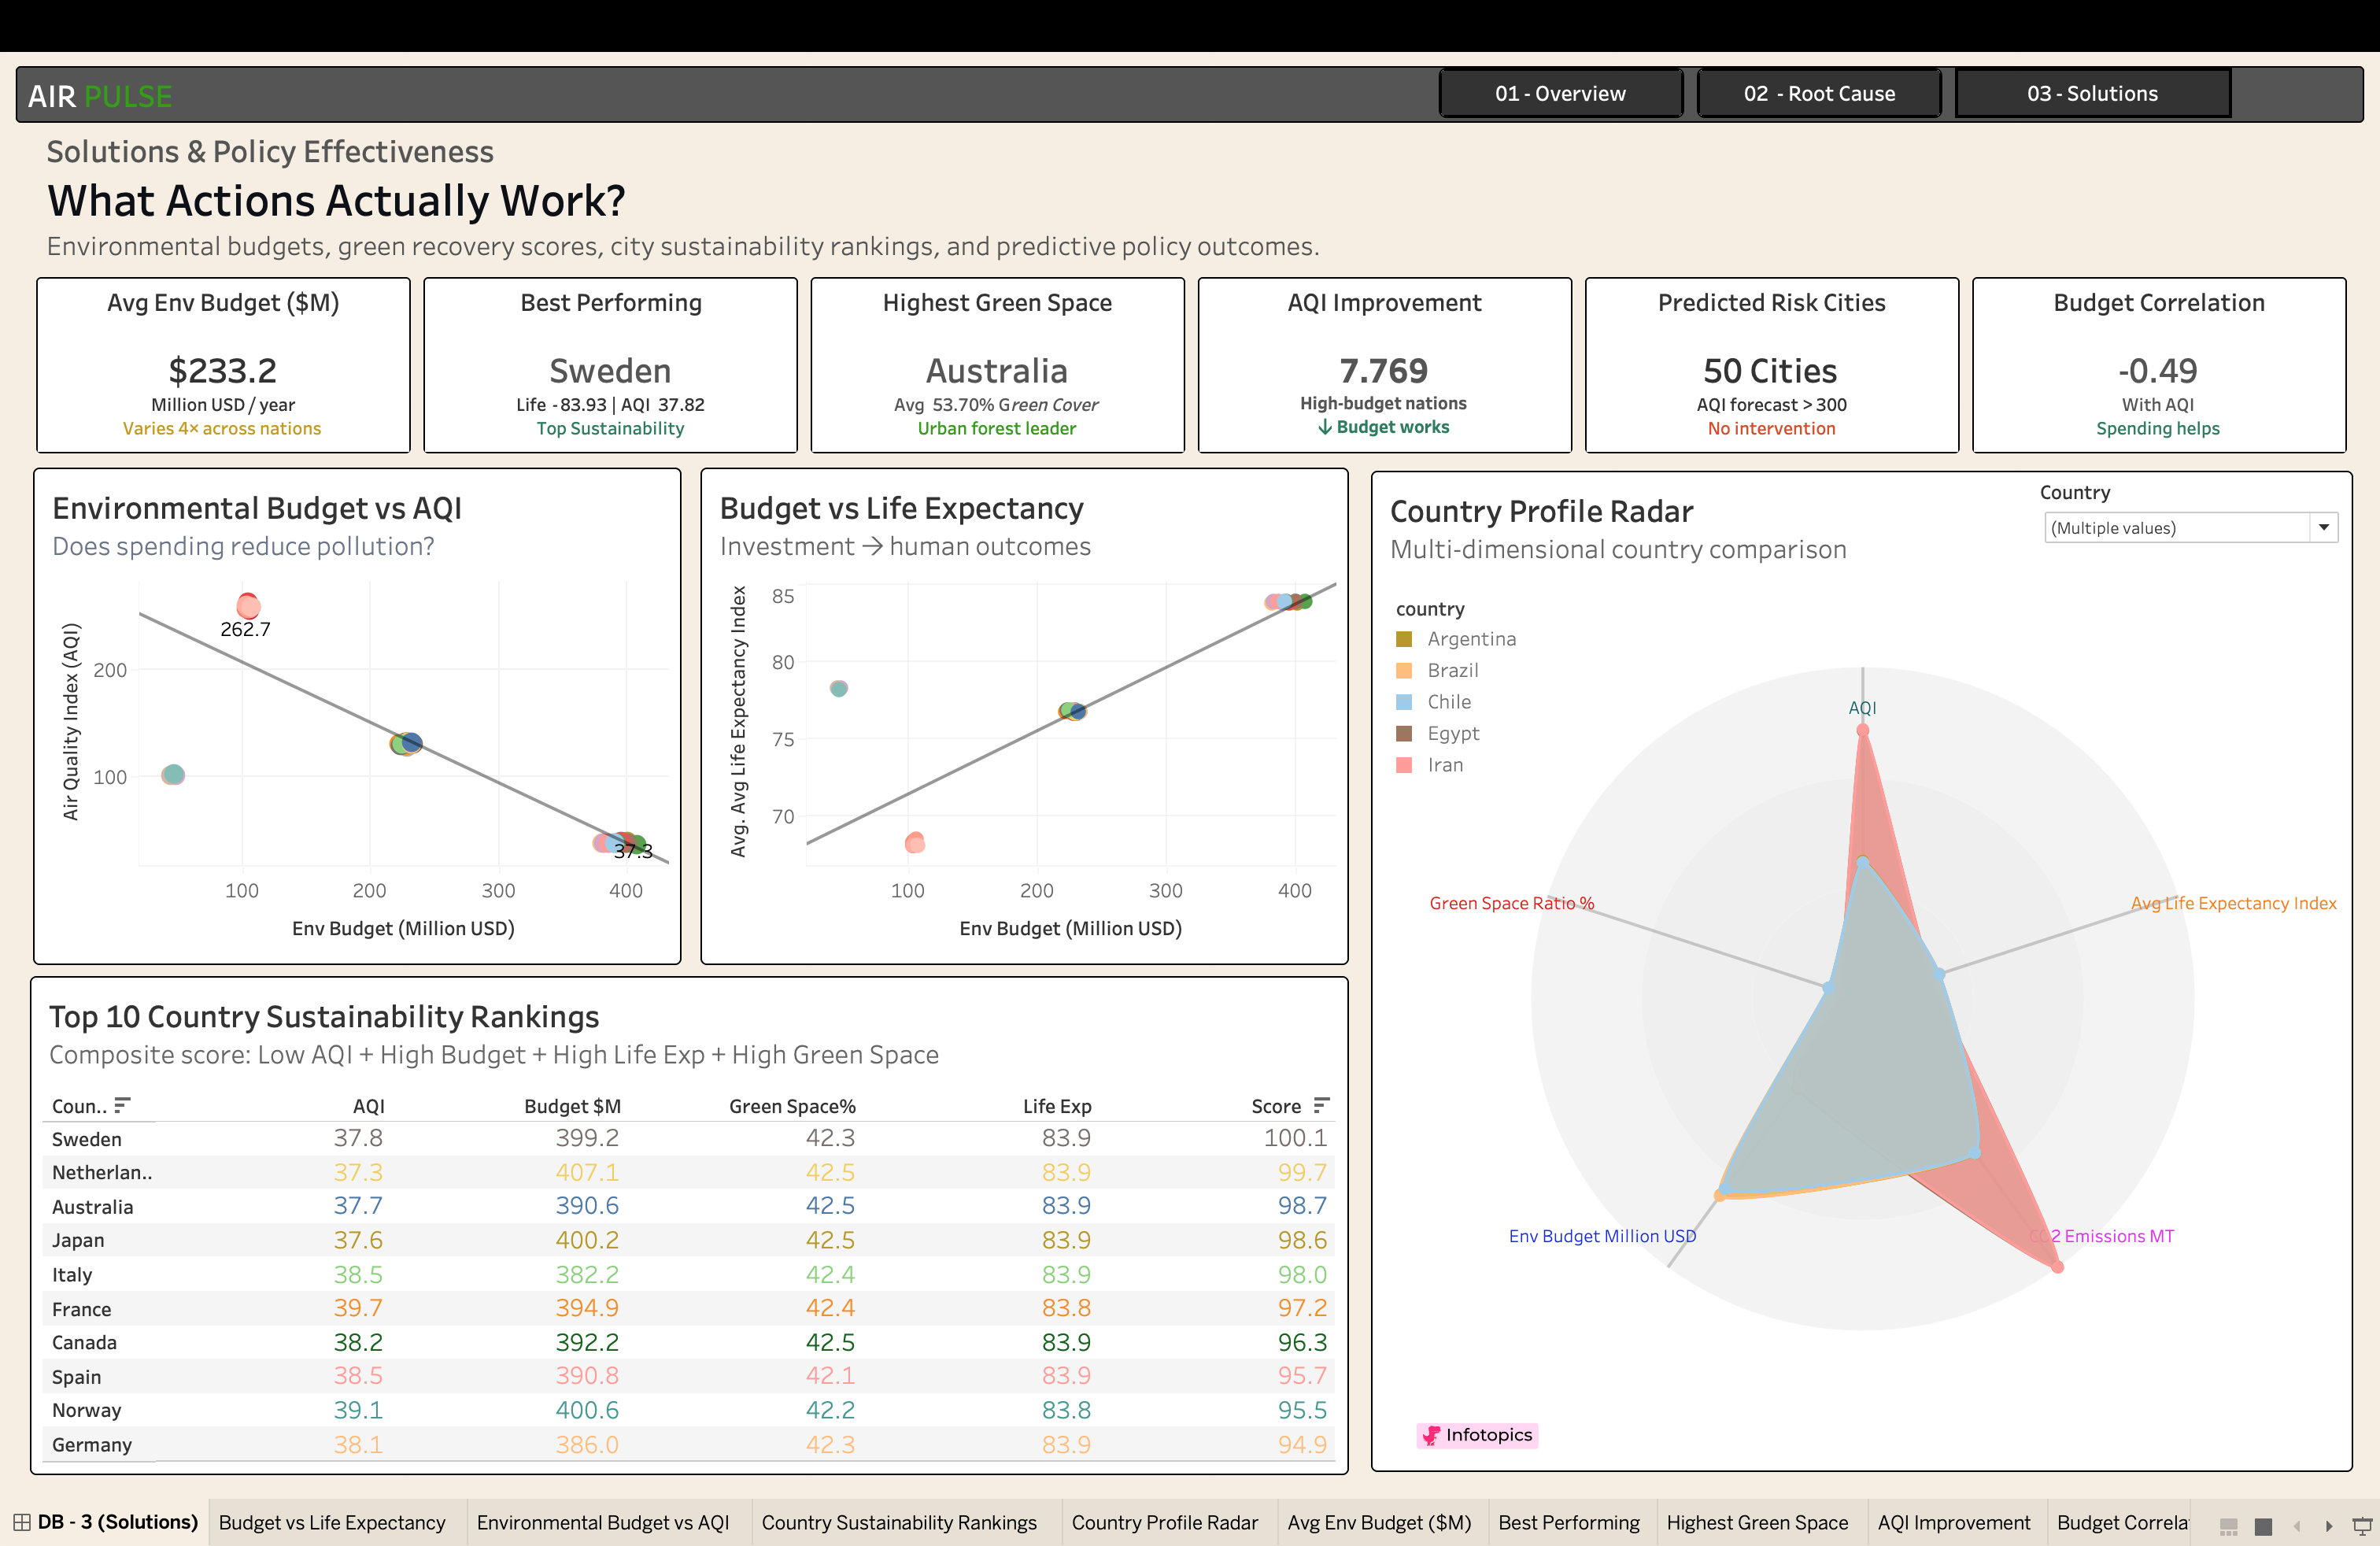
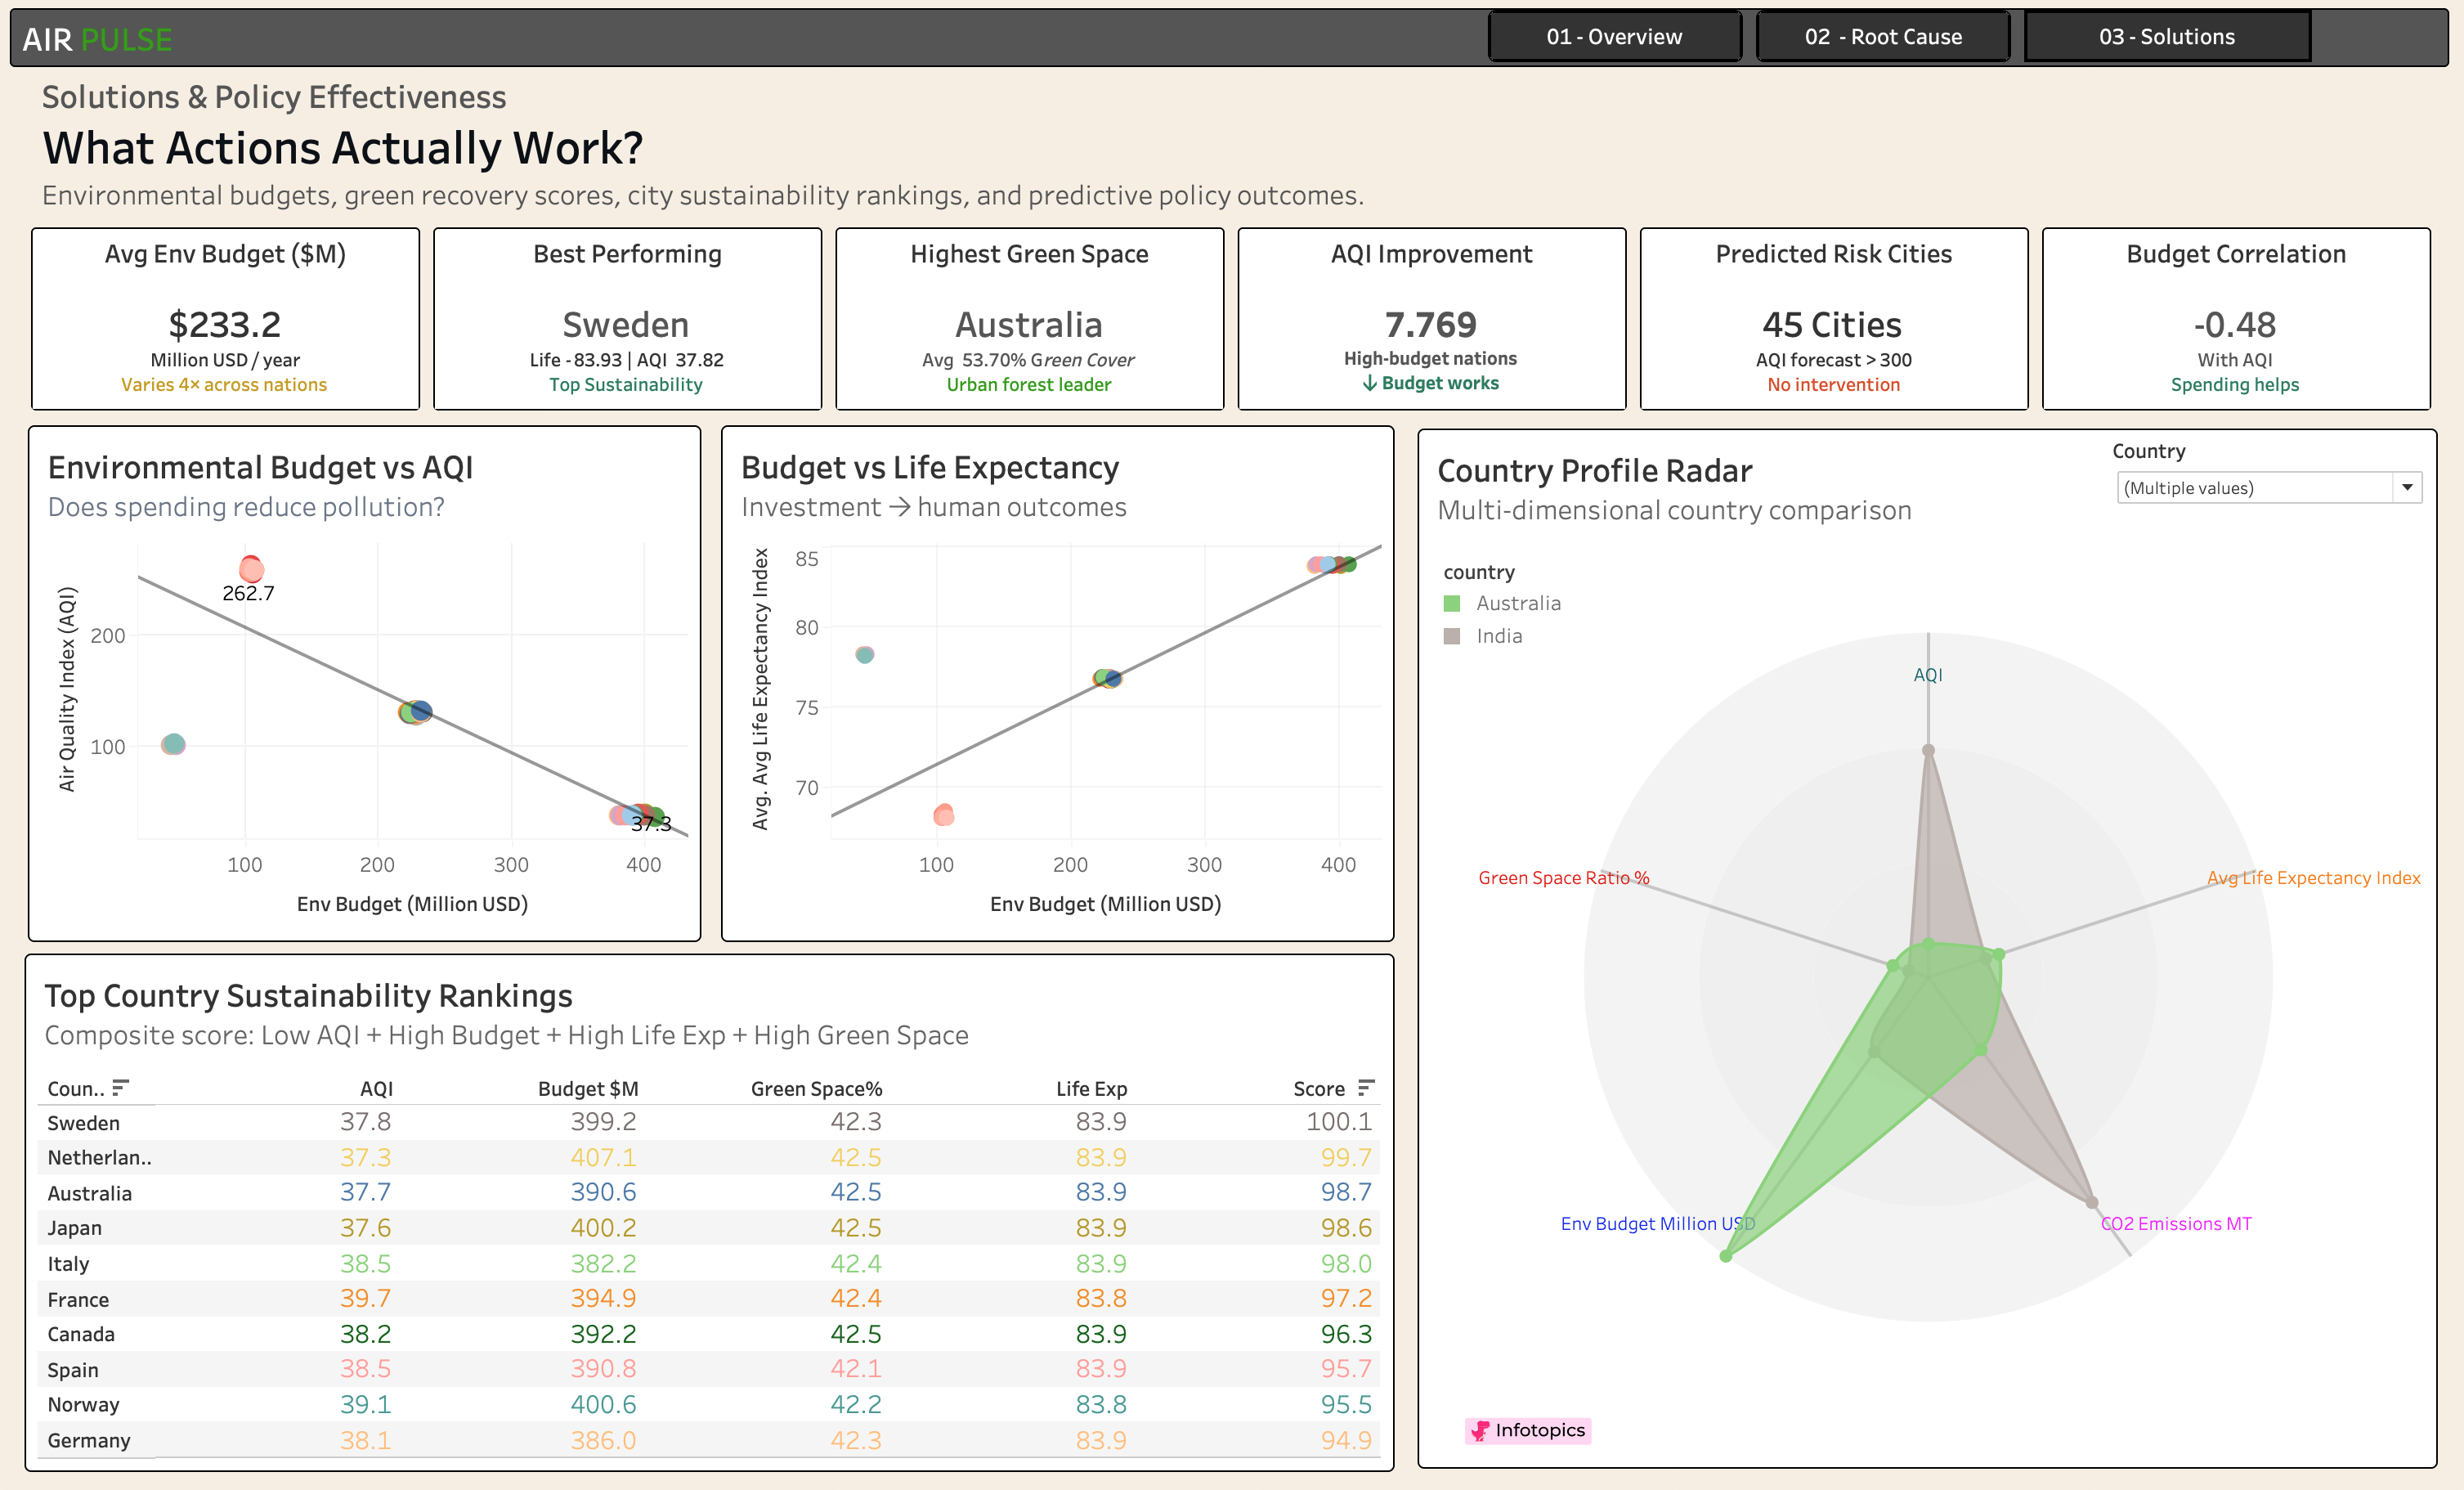
Updated project structure, added my portfolio link and resume and updated the dashboard link

diff --git a/DVA-focused-Portfolio/README.md b/DVA-focused-Portfolio/README.md
@@ -1,0 +1,16 @@
+# DVA-focused Portfolio
+
+This directory contains the personal portfolios of the team members, highlighting their work in Data Visualization and Analytics.
+
+## 👥 Team Portfolios
+
+| Member | Portfolio Link |
+| :--- | :--- |
+| **Shreya** | [Link Placeholder] |
+| **Mausam** | [View Portfolio](https://mausam-dva-portfolio.netlify.app/) |
+| **Ashutosh** | [Link Placeholder] |
+| **Satyam** | [Link Placeholder] |
+| **Himanshu** | [Link Placeholder] |
+| **Shagun Vishnoi** | [Link Placeholder] |
+
+---

diff --git a/DVA-oriented-Resume/README.md b/DVA-oriented-Resume/README.md
@@ -1,0 +1,16 @@
+# DVA-oriented Resume
+
+This directory contains the resumes of the team members, optimized for Data Visualization and Analytics roles.
+
+## 👥 Team Resumes
+
+| Member | Resume Link |
+| :--- | :--- |
+| **Shreya** | [Link Placeholder] |
+| **Mausam** | [Link Placeholder] |
+| **Ashutosh** | [Link Placeholder] |
+| **Satyam** | [Link Placeholder] |
+| **Himanshu** | [Link Placeholder] |
+| **Shagun Vishnoi** | [Link Placeholder] |
+
+---

diff --git a/tableau/dashboard_links.md b/tableau/dashboard_links.md
@@ -1,3 +1,3 @@
 # Tableau Public Dashboard Link
 
-[Global AQI Analytics Dashboard](https://public.tableau.com/views/DVA_Dashboard_Final/DB-2RootCause?:language=en-GB&publish=yes&:sid=&:redirect=auth&:display_count=n&:origin=viz_share_link)
+[Global AQI Analytics Dashboard](https://public.tableau.com/app/profile/mausam.kumar8507/viz/Tableau_Dashboard_Final/DB-3Solutions?publish=yes)